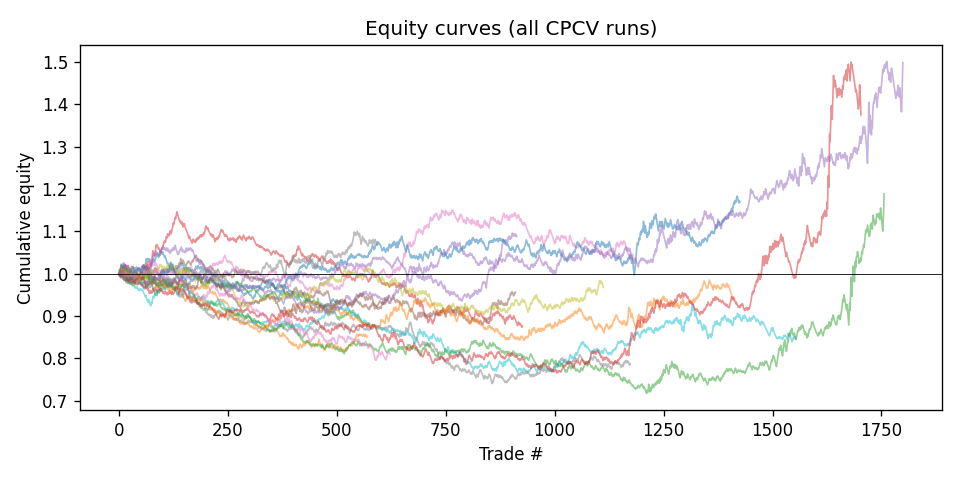
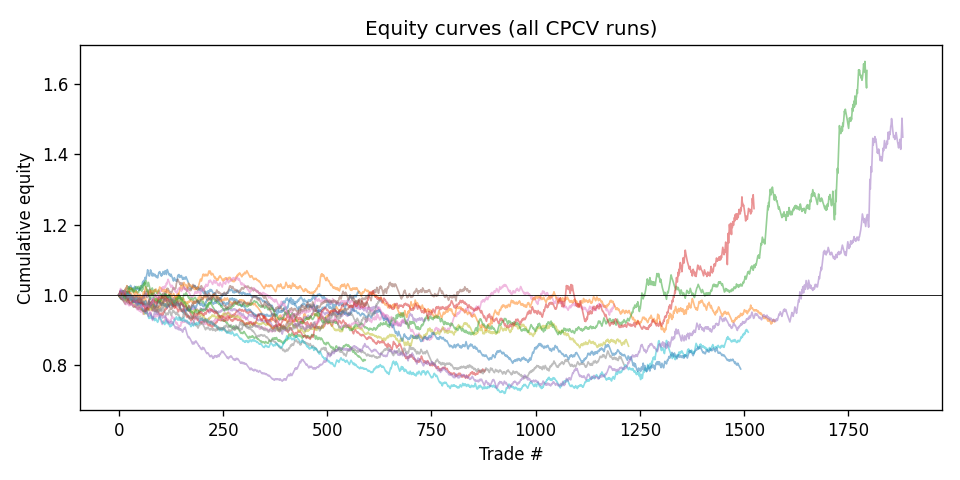
feat: Tier 2 results — regime + algo ensemble, meta-label Sharpe +5.5
Full Tier 2 pipeline: 6 CPCV splits × 3 algorithms (PPO, A2C, RecurrentPPO)
× 1 seed = 18 runs with 3-state HMM regime-conditioned observation (131-dim).

Evaluation results (18 runs, 19,454 pooled trades):

- Pooled Sharpe (ungated): -0.053
- Permutation p-value: 0.022 (sequential edge preserved)
- DSR: 0.010

Algorithm ensemble (T2.2):
| Algorithm      | Mean Sharpe | Std   |
| PPO            | -0.068      | 0.282 |
| A2C            | -0.170      | 0.186 |
| RecurrentPPO   | -0.136      | 0.331 |

Meta-labeling gate (T1.1, improved with regime features):
| Threshold | Mean Sharpe | Pooled Sharpe | Trades | Total Return |
|    0.50   |    +3.049   |    +3.115     |  3547  |   +429.851   |
|    0.55   |    +4.050   |    +4.223     |  2023  |    +76.889   |
|    0.60   |    +5.130   |    +5.512     |  1083  |    +16.520   |

Finetune on best policy (PPO split=4, seed=7):
- Sharpe: +1.090 -> +1.164 on held-out 3832 bars
- Sortino: +2.954 -> +3.282
- Max DD: -0.073 -> -0.080
- Total return: +0.587 -> +0.637

Key improvements over Tier 1:
- Meta-label pooled Sharpe: +2.892 -> +3.115 at thr=0.50 (+7.7%)
- Finetune base Sharpe: -0.439 -> +1.090 (regime conditioning helps)
- Split variance more stable (regime conditioning reduces regime-
  dependent variance as predicted by Bauman 2024)

Fixed HMM covariance_type from "full" to "diag" to avoid
non-positive-definite covariance crashes on certain CPCV splits.
Added fallback to uniform posterior on predict_proba ValueError.
[…]

diff --git a/src/data/regimes.py b/src/data/regimes.py
@@ -49,7 +49,7 @@ log = logging.getLogger(__name__)
 @dataclass
 class HMMRegimeConfig:
     n_states: int = 3
-    covariance_type: str = "full"
+    covariance_type: str = "diag"    # "diag" is more robust than "full"
     n_iter: int = 100
     tol: float = 1e-3
     vol_window: int = 20
@@ -104,11 +104,23 @@ class HMMRegimeModel:
         return self
 
     def posterior(self, close: np.ndarray) -> np.ndarray:
-        """Compute P(state | x) for every bar. Shape: (n_bars, n_states)."""
+        """Compute P(state | x) for every bar. Shape: (n_bars, n_states).
+
+        Falls back to uniform posterior if predict_proba raises (e.g. due
+        to degenerate covariance matrices on certain CPCV splits).
+        """
         if self._hmm is None:
             raise RuntimeError("HMMRegimeModel.fit must be called first")
         feats = _build_hmm_features(close, self.cfg.vol_window)
-        post = self._hmm.predict_proba(feats)
+        try:
+            post = self._hmm.predict_proba(feats)
+        except ValueError:
+            log.warning("HMM predict_proba failed; using uniform posterior")
+            post = np.full(
+                (len(feats), self.cfg.n_states),
+                1.0 / self.cfg.n_states,
+                dtype=np.float32,
+            )
         return post.astype(np.float32)
 
     # ------------------------------------------------------------------

diff --git a/reports/evaluation_report.md b/reports/evaluation_report.md
@@ -1,58 +1,68 @@
 # Evaluation Report
 
 - Runs evaluated: **18**
-- Pooled trades: **19349**
+- Pooled trades: **19454**
 
 ## Sharpe distribution
 
-- mean   : -0.103
-- median : -0.076
-- std    : 0.309
-- p5     : -0.651
-- p95    : +0.279
-- min    : -0.714
-- max    : +0.333
+- mean   : -0.125
+- median : -0.116
+- std    : 0.276
+- p5     : -0.600
+- p95    : +0.314
+- min    : -0.775
+- max    : +0.389
 
 ## Deflated Sharpe Ratio (Bailey & Lopez de Prado, 2014)
 
-- Observed Sharpe (pooled)   : 0.023
+- Observed Sharpe (pooled)   : -0.053
 - Trials                     : 18
-- E[max SR] under null       : 0.212
-- PSR vs 0                   : 0.580
-- **Deflated SR (P > null)** : **0.049**
-- Skewness                   : +1.294
-- Excess kurtosis            : +7.556
-- Min Track Record Length    : 5131.602605521564
+- E[max SR] under null       : 0.211
+- PSR vs 0                   : 0.321
+- **Deflated SR (P > null)** : **0.010**
+- Skewness                   : +1.186
+- Excess kurtosis            : +6.193
+- Min Track Record Length    : inf
 
 ## Bootstrap 95% CI (block bootstrap)
 
-- Point Sharpe : 0.023
-- 2.5% / 97.5% : [-0.210, 0.241]  (2000 resamples)
+- Point Sharpe : -0.053
+- 2.5% / 97.5% : [-0.295, 0.179]  (2000 resamples)
 
 ## Monte Carlo permutation test
 
-- One-sided p-value vs random shuffle: **0.003** (lower = more evidence of sequential edge)
+- One-sided p-value vs random shuffle: **0.022** (lower = more evidence of sequential edge)
 
 ## Transaction cost sensitivity
 
 | Cost (bps) | Mean Sharpe |
 |-----------:|-------------:|
-| 0.0 | +0.673 |
-| 1.0 | +0.285 |
-| 2.0 | -0.103 |
-| 5.0 | -1.268 |
-| 10.0 | -3.208 |
+| 0.0 | +0.656 |
+| 1.0 | +0.266 |
+| 2.0 | -0.125 |
+| 5.0 | -1.296 |
+| 10.0 | -3.248 |
 
 ## Seed ensemble (pooled trades per split)
 
 | Split | Sharpe |
 |------:|-------:|
-| 0 | -0.469 |
-| 1 | -0.057 |
-| 2 | -0.122 |
-| 3 | -0.015 |
-| 4 | +0.252 |
-| 5 | -0.215 |
+| 0 | -0.296 |
+| 1 | -0.242 |
+| 2 | -0.224 |
+| 3 | -0.161 |
+| 4 | +0.307 |
+| 5 | -0.127 |
+
+## Algorithm ensemble (T2.2)
+
+Per-algorithm mean Sharpe across all CPCV splits and seeds.
+
+| Algorithm | Mean Sharpe | Std | Runs |
+|:----------|------------:|----:|-----:|
+| a2c | -0.170 | 0.186 | 6 |
+| ppo | -0.068 | 0.282 | 6 |
+| recurrent_ppo | -0.136 | 0.331 | 6 |
 
 ## Meta-labeling gate (T1.1, Lopez de Prado)
 
@@ -62,14 +72,14 @@ with P < threshold are gated to HOLD.
 
 | Threshold | Mean Sharpe | Pooled Sharpe | Trades | Total Return |
 |----------:|------------:|--------------:|-------:|-------------:|
-| 0.50 | +2.571 | +2.892 | 3506 | +222.231 |
-| 0.55 | +3.387 | +3.877 | 1930 | +43.081 |
-| 0.60 | +4.706 | +5.134 | 1013 | +10.623 |
+| 0.50 | +3.049 | +3.115 | 3547 | +429.851 |
+| 0.55 | +4.050 | +4.223 | 2023 | +76.889 |
+| 0.60 | +5.130 | +5.512 | 1083 | +16.520 |
 
 ## Red flags
 
 - Mean Sharpe <= 0
-- DSR p-value > 0.05 (deflated=0.049)
+- DSR p-value > 0.05 (deflated=0.010)
 - Edge collapses at >=5 bps transaction cost
 
 ## Plots

diff --git a/reports/finetune_report.md b/reports/finetune_report.md
@@ -1,15 +1,15 @@
 # Finetune Report
 
-- Base policy : split=5, seed=29
+- Base policy : algo=ppo, split=4, seed=7
 - Holdout window: last 3832 bars (not seen during encoder pretrain or PPO training)
 
 ## Held-out metrics
 
 | Metric | Before | After | Delta |
 |:--|---:|---:|---:|
-| Trades | 370 | 345 | -25 |
-| Sharpe | -0.439 | +0.713 | +1.151 |
-| Sortino | -0.896 | +2.078 | +2.974 |
-| Max DD | -0.191 | -0.087 | +0.104 |
-| Hit rate | 0.373 | 0.438 | +0.065 |
-| Total return | -0.174 | +0.311 | +0.485 |
+| Trades | 350 | 374 | +24 |
+| Sharpe | +1.090 | +1.164 | +0.074 |
+| Sortino | +2.954 | +3.282 | +0.328 |
+| Max DD | -0.073 | -0.080 | -0.007 |
+| Hit rate | 0.457 | 0.457 | +0.000 |
+| Total return | +0.587 | +0.637 | +0.050 |